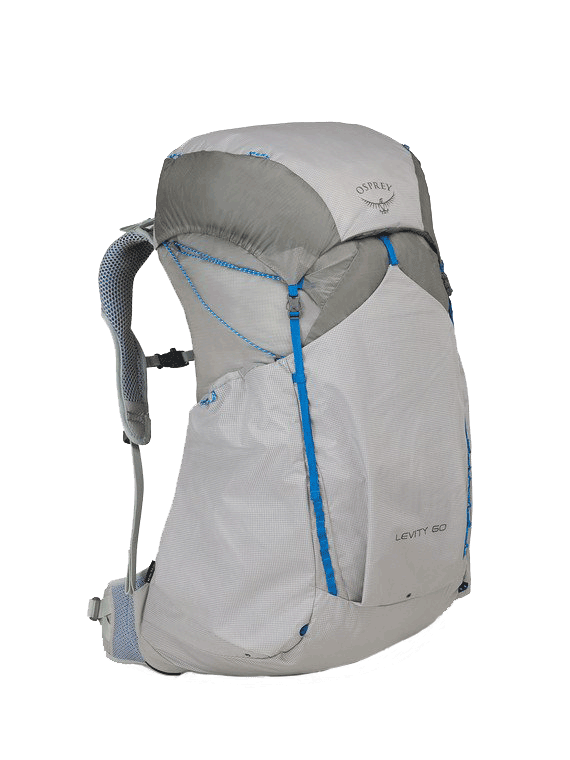
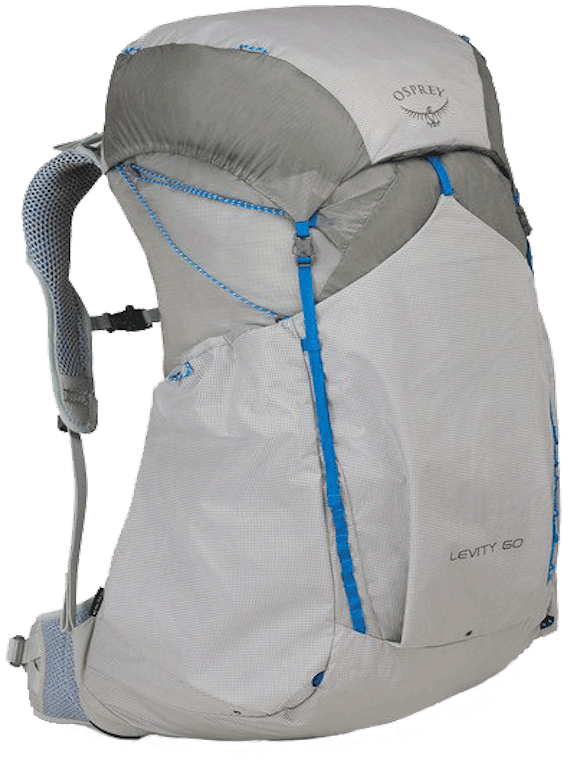
made asset size of dummy data images uniform, will have to do for full product set. Image carousel working smoothly, will have to format and css later

diff --git a/client/components/productDetails.jsx b/client/components/productDetails.jsx
@@ -1,6 +1,10 @@
 import React from 'react'
 import { connect } from 'react-redux'
 
+import Carousel from 'react-bootstrap/Carousel'
+
+import "./styles/product_details_style.css"
+
 class ProductDetails extends React.Component {
   render () {
     console.log('this.props in product details: ', this.props);
@@ -20,37 +24,57 @@ class ProductDetails extends React.Component {
           </div>
 
           {/* <img className="col-8 " src={'../' + this.props.products[id].images[0]} alt="" /> */}
+          <div className="col-8 carousel-container">
+            <Carousel interval={false}>
+              <Carousel.Item>
+                <img
+                  className="d-block w-100"
+                  src={'../' + this.props.products[id].images[0]}
+                  alt="First slide"
+                />
+                <Carousel.Caption>
+                  <h3>First slide label</h3>
+                  <p>Nulla vitae elit libero, a pharetra augue mollis interdum.</p>
+                </Carousel.Caption>
+              </Carousel.Item>
+              <Carousel.Item>
+                <img
+                  className="d-block w-100"
+                  src={'../' + this.props.products[id].images[1]}
+                  alt="Third slide"
+                />
 
-          <div id="images" className="col-8 carousel slide" data-ride="carousel" data-interval="false">
-            <ol className="carousel-indicators">
-              <li data-target="#images" data-slide-to="0" className="active"></li>
-              <li data-target="#images" data-slide-to="1"></li>
-              <li data-target="#images" data-slide-to="2"></li>
-              <li data-target="#images" data-slide-to="3"></li>
-            </ol>
-              <div className="carousel-inner">
-                <div className="carousel-item active">
-                  <img className="d-block w-100" src={'../' + this.props.products[id].images[0]} alt="First slide"/>
-                </div>
-                <div className="carousel-item">
-                  <img className="d-block w-100" src={'../' + this.props.products[id].images[1]} alt="Second slide"/>
-                </div>
-                <div className="carousel-item">
-                  <img className="d-block w-100" src={'../' + this.props.products[id].images[2]} alt="Third slide"/>
-                </div>
-                <div className="carousel-item">
-                  <img className="d-block w-100" src={'../' + this.props.products[id].images[3]} alt="Fourth slide"/>
-                </div>
-            </div>
-            <a className="carousel-control-prev" href="#images" role="button" data-slide="prev">
-              <span className="carousel-control-prev-icon" aria-hidden="true"></span>
-              <span className="sr-only">Previous</span>
-            </a>
-            <a className="carousel-control-next" href="#images" role="button" data-slide="next">
-              <span className="carousel-control-next-icon" aria-hidden="true"></span>
-              <span className="sr-only">Next</span>
-            </a>
-        </div>
+                <Carousel.Caption>
+                  <h3>Second slide label</h3>
+                  <p>Lorem ipsum dolor sit amet, consectetur adipiscing elit.</p>
+                </Carousel.Caption>
+              </Carousel.Item>
+              <Carousel.Item>
+                <img
+                  className="d-block w-100"
+                  src={'../' + this.props.products[id].images[2]}
+                  alt="Third slide"
+                />
+
+                <Carousel.Caption>
+                  <h3>Third slide label</h3>
+                  <p>Praesent commodo cursus magna, vel scelerisque nisl consectetur.</p>
+                </Carousel.Caption>
+              </Carousel.Item>
+              <Carousel.Item>
+                <img
+                  className="d-block w-100"
+                  src={'../' + this.props.products[id].images[3]}
+                  alt="Third slide"
+                />
+
+                <Carousel.Caption>
+                  <h3>Third slide label</h3>
+                  <p>Praesent commodo cursus magna, vel scelerisque nisl consectetur.</p>
+                </Carousel.Caption>
+              </Carousel.Item>
+            </Carousel>
+          </div>
           
 
 

diff --git a/webpack.config.js b/webpack.config.js
@@ -2,17 +2,17 @@ const path = require('path');
 const srcPath = path.resolve(__dirname, 'client');
 const publicPath = path.resolve(__dirname, 'server/public/');
 
-const CopyPlugin = require('copy-webpack-plugin');
+// const CopyPlugin = require('copy-webpack-plugin');
 
 module.exports = {
-  plugins: [
-    new CopyPlugin([
-      { from: "./client/images", to: "./client/components/" },
-      // { from: "./client/images", to: "./client/components/productDetails.jsx" },
-      // { from: "./client/images", to: "./client/components/cart.jsx" },
-      // { from: "./client/images", to: "./client/components/checkout.jsx" },
-    ])
-  ],
+  // plugins: [
+  //   new CopyPlugin([
+  //     { from: "./client/images", to: "./client/components/" },
+  //     // { from: "./client/images", to: "./client/components/productDetails.jsx" },
+  //     // { from: "./client/images", to: "./client/components/cart.jsx" },
+  //     // { from: "./client/images", to: "./client/components/checkout.jsx" },
+  //   ])
+  // ],
   resolve: {
     extensions: [".js", ".jsx"]
   },

diff --git a/client/components/styles/product_details_style.css b/client/components/styles/product_details_style.css
@@ -1,0 +1,28 @@
+.carousel{
+    height: 760px;
+    width: 570px;
+}
+
+.carousel-control-prev-icon,
+.carousel-control-next-icon {
+  height: 30px;
+  width: 30px;
+  /* outline: black; */
+  /* background-size: 100%, 100%; */
+  /* border-radius: 50%; */
+  /* border: 1px solid black; */
+  background-image: none;
+}
+
+.carousel-control-next-icon:after
+{
+  content: '>';
+  font-size: 55px;
+  color: lightslategrey;
+}
+
+.carousel-control-prev-icon:after {
+  content: '<';
+  font-size: 55px;
+  color: lightslategrey;
+}

diff --git a/server/public/index.html b/server/public/index.html
@@ -2,6 +2,7 @@
 <html>
 <head>
   <link rel="shortcut icon" href="favicon.ico">
+  <link rel="stylesheet" href="https://maxcdn.bootstrapcdn.com/bootstrap/latest/css/bootstrap.min.css">
 </head>
 <body >
   <div id="root"></div>

diff --git a/client/components/styles/global_style.css b/client/components/styles/global_style.css
@@ -1,5 +1,5 @@
 .app-main{
-  background-color: lightslategray;
+  /* background-color: lightslategray; */
 }
 .btn:focus, .btn:active {
   outline: none !important;
